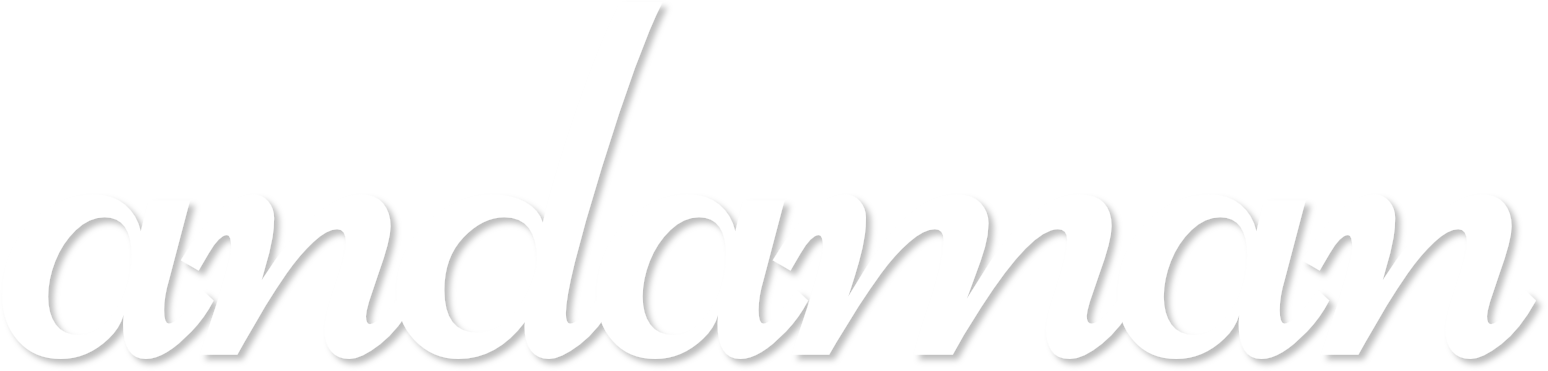
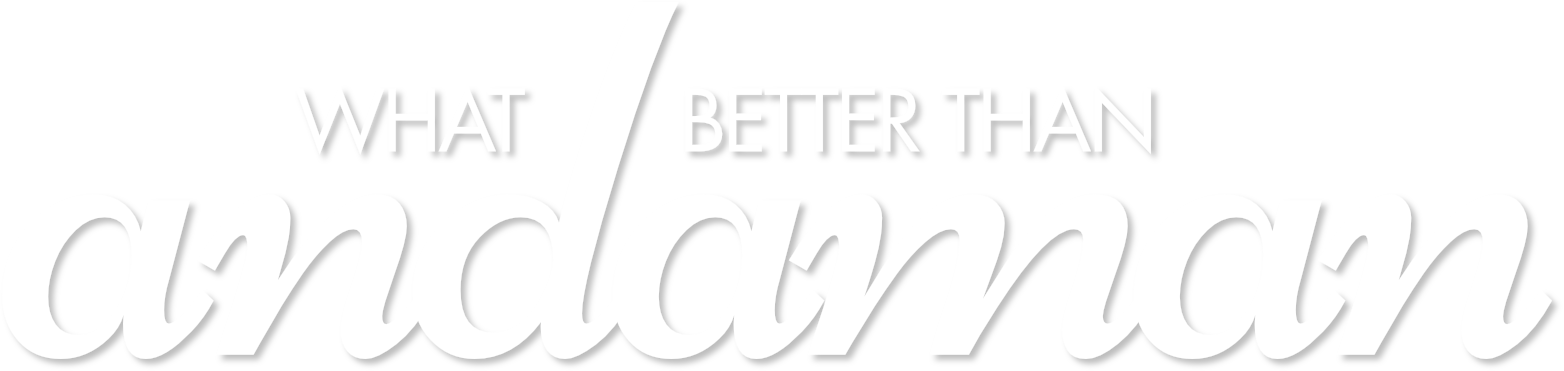
more or less

diff --git a/style.css b/style.css
@@ -37,6 +37,83 @@ video{
     transform: translate(-50%, -50%);
 }
 
+#stuff {
+    /*display:block;
+    margin: 0 auto;*/ 
+    position: absolute;
+    top: 35%;
+    left: 50%;
+    transform: translate(-50%, -50%);
+    overflow: hidden;
+    text-align: center;
+    font-family: sans-serif;
+    font-weight: 1000;
+    color: #ffffff;
+}
+
+ul,
+li {
+  height: 50px;
+  margin: 0px;
+  padding: 0px;
+  width: 100%;
+}
+
+li {
+    list-style-type: none;
+    margin: 0px 0 1px 0;
+    height: 1em !important;
+    padding: 0px 0 0px 0;
+    font-size: 3em;
+    text-transform: uppercase;
+    width: 100%;
+  }
+
+  .t {
+    animation-name: titleflip;
+    animation: titleflip 5s ease-in-out infinite;
+      }
+  
+  @-webkit-keyframes titleflip {
+    0%, 20% {
+    transform: translate(0px, -12.50em);
+    }
+    20%,
+    40% {
+   transform: translate(0px, -9.375em);
+    }
+    40%,
+    60% {
+      -webkit-transform: translate(0px, -6.44em);
+    }
+    60%,
+    80% {
+    transform: translate(0px, -3.44em);
+    }
+    80%,
+    100% {
+    transform: translate(0px, -0.315em);
+    }
+    100%,
+    0% {
+      transform: translate(0px, -12.50em);
+    }
+  }
+
+
+
+
+
+
+
+
+
+
+
+
+
+
+
 #andamanimg{
     width: 100%;
     object-fit: cover;
@@ -88,3 +165,7 @@ video{
     object-fit: cover;
     object-position: bottom;
 }
+
+
+
+

diff --git a/index.html b/index.html
@@ -15,6 +15,16 @@
     <div id="andaman">
         <img id="andamanimg" src="andaman 01.png">
     </div>
+
+    <div id="stuff">
+        <ul class="t">
+            <li>wedding</li>
+            <li>conference</li>
+            <li>dealers meet</li>
+            <li>college fest</li>
+            <li>film shoot</li>
+        </ul>
+    </div>
   
     <div id="andamanics">
         <img id="andamanicslogo" src="andamanics.png">
